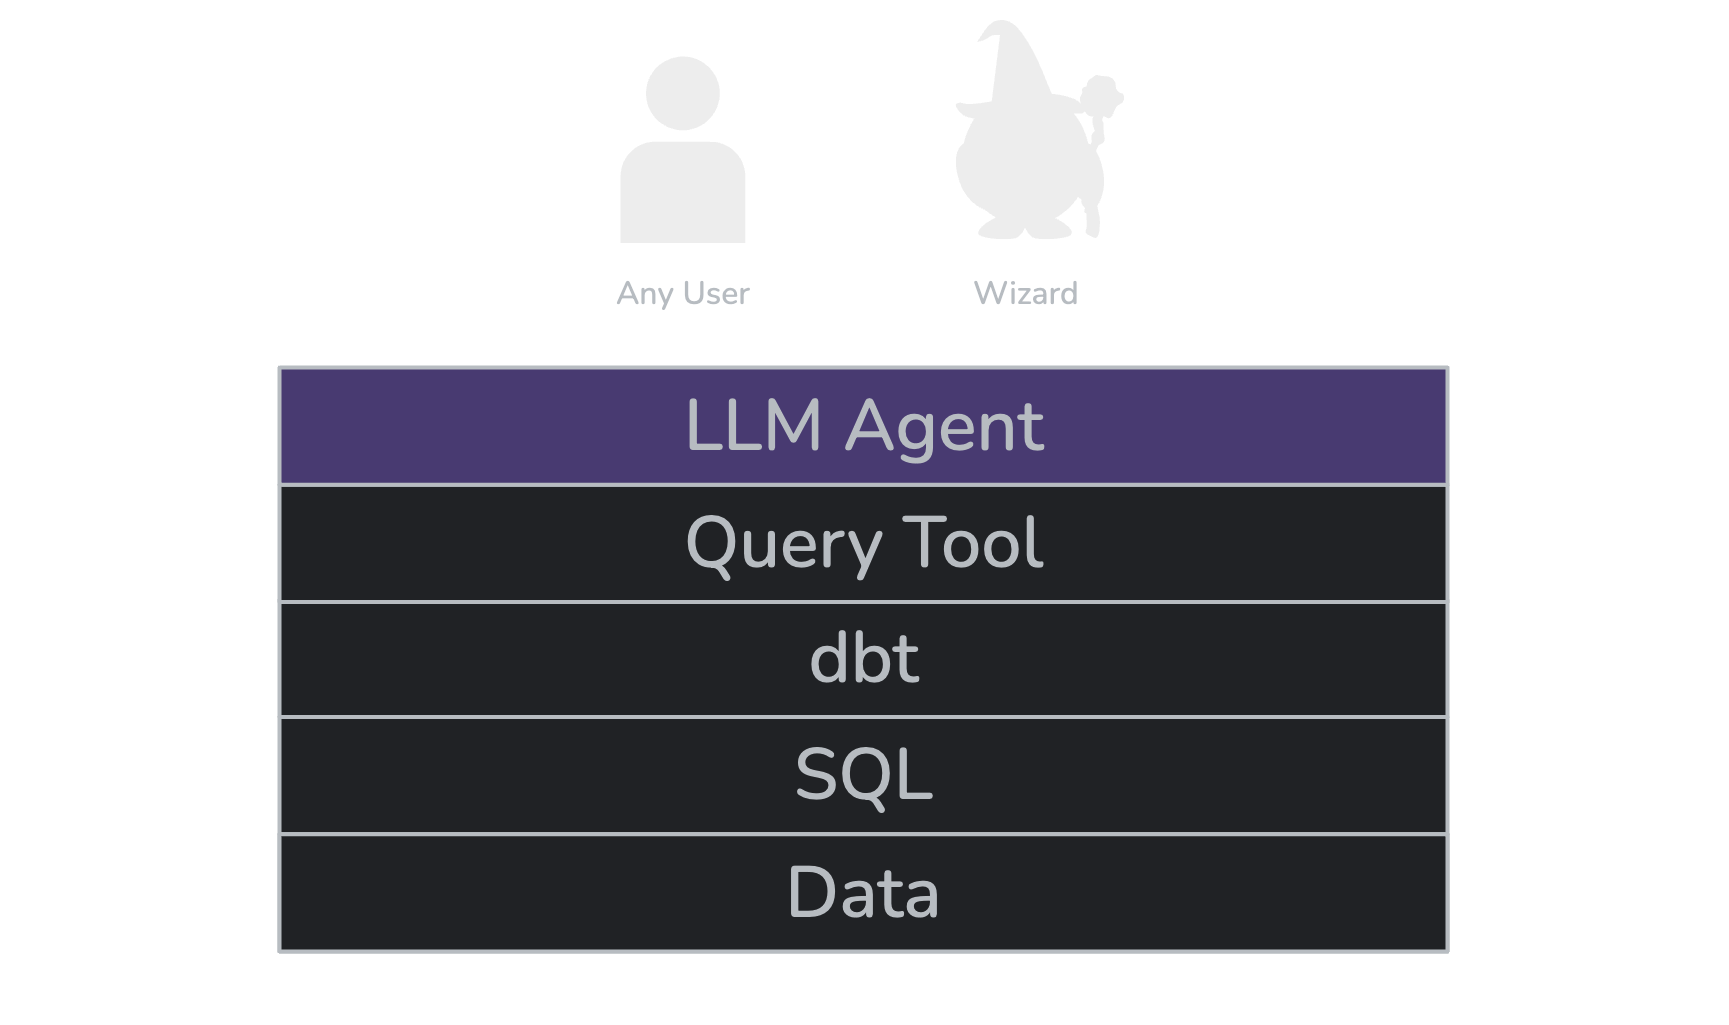
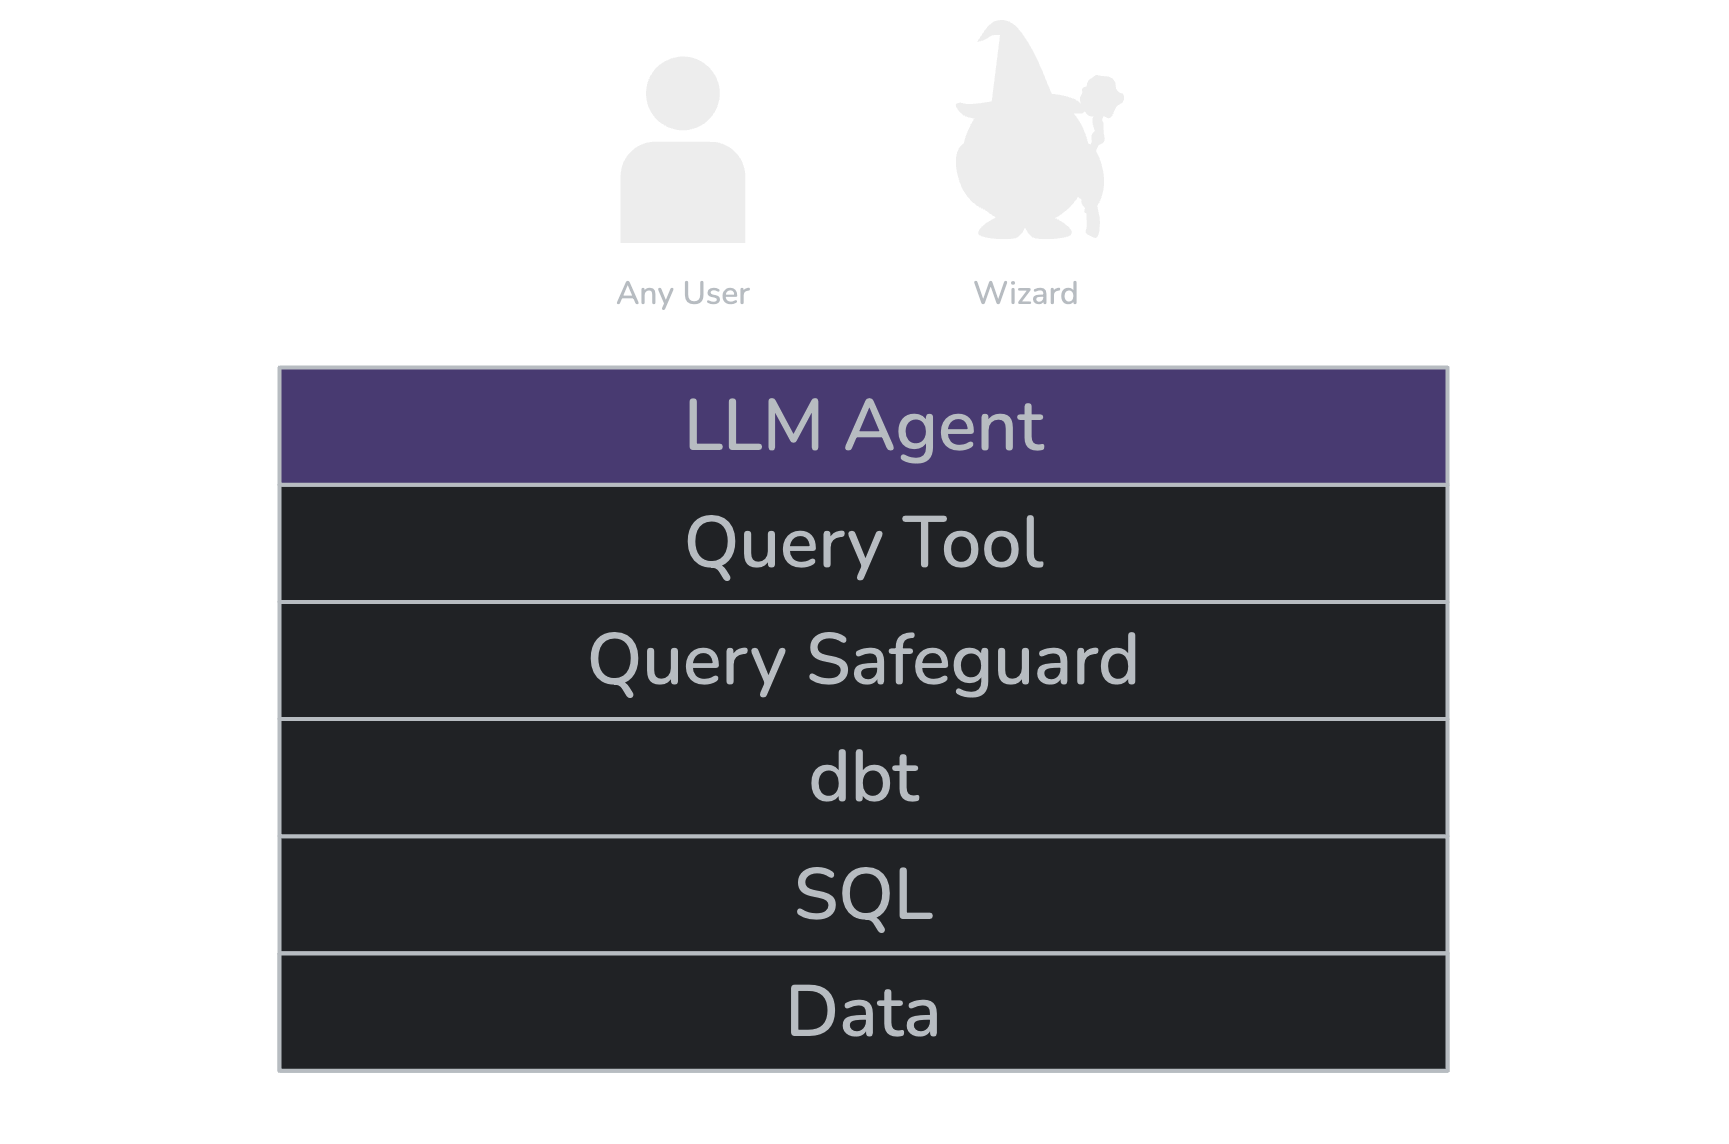
Tweaks to clarify what it's all about.

Changed region(s): [[0.1562, 0.2498, 0.8433, 0.9366]]

diff --git a/README.md b/README.md
@@ -6,11 +6,9 @@ SQLBot is a new kind of interface for your database. Instead of writing SQL quer
 
 It represents the next logical layer on the modern data stack, building directly on the power of SQL and dbt.
 
-### How It Works: A Smarter Tech Stack
+### The Problem with Raw SQL
 
-To understand SQLBot, it helps to see the evolution of the tools it's built upon.
-
-#### **Layer 1: SQL — The Powerful Foundation**
+Most people use SQL through apps.  Maybe you're comfortable writing raw SQL queries if you're a wizard.  Most people aren't.
 
 <picture>
   <source media="(prefers-color-scheme: dark)" srcset="documentation/diagrams/images/architecture/DB+SQL-dark.png">
@@ -18,7 +16,7 @@ To understand SQLBot, it helps to see the evolution of the tools it's built upon
   <img alt="SQL Layer: The foundation layer showing raw SQL complexity" src="documentation/diagrams/images/architecture/DB+SQL.png">
 </picture>
 
-SQL is the universal language of data. It's powerful, but can quickly become complex and difficult to read, especially with multiple joins. For example, getting a customer's rental history in the Sakila database (a sample DVD rental store database with customers, films, and rental transactions) requires this:
+Sure, SQL powers most relational databases—it's incredibly powerful. But here's the thing: even simple questions can turn into sprawling queries with multiple joins and cryptic table relationships. Want to see what a "basic" customer lookup actually looks like? Here's what you'd need to write just to get someone's rental history from the Sakila database:
 
 ```sql
 -- Raw SQL: Get rental history for customer 526
@@ -41,15 +39,15 @@ ORDER BY
 
 This is hard to reuse and requires every user to understand the database's join logic.
 
-#### **Layer 2: dbt — The Standardization Layer**
+### Enter dbt: Sharing Database Knowledge
 
 <picture>
   <source media="(prefers-color-scheme: dark)" srcset="documentation/diagrams/images/architecture/DB+SQL+DBT-dark.png">
   <source media="(prefers-color-scheme: light)" srcset="documentation/diagrams/images/architecture/DB+SQL+DBT.png">
-  <img alt="dbt Layer: Standardization layer adding structure and reusability to SQL" src="documentation/diagrams/images/architecture/DB+SQL+DBT.png">
+  <img alt="dbt Layer: Knowledge sharing layer making database expertise accessible to business users" src="documentation/diagrams/images/architecture/DB+SQL+DBT.png">
 </picture>
 
-dbt sits on top of SQL, adding a layer of templating (Jinja) and structure. It allows you to create reusable macros that hide complexity. The ugly query above can be turned into a clean, readable macro:
+Here's where dbt changes the game. Those database wizards who understand all the table relationships? They can package their knowledge into macros and schemas that business users can actually work with. That ugly query above becomes a simple, self-documenting function:
 
 ```sql
 -- In a file like `macros/get_customer_rental_history.sql`
@@ -72,15 +70,16 @@ dbt sits on top of SQL, adding a layer of templating (Jinja) and structure. It a
 {% endmacro %}
 ```
 
-Now, anyone (or anything) can perform that complex task with a simple, self-documenting line:
+Suddenly, business users can access complex database operations without needing to understand the underlying join logic:
 
 ```sql
--- A human can now write this instead:
+-- A business user can now write this instead:
 {{ get_customer_rental_history(customer_id=526) }}
 ```
-dbt also standardizes database connections and provides a `schema.yml` file, a "data dictionary" that describes your tables and columns in plain English.
 
-#### **Layer 3: SQLBot — The Intelligence & Safety Layer**
+The real magic happens in dbt's `schema.yml` files—they're like institutional memory for your database. Wizards document what each table and column actually means in plain English, creating a shared vocabulary that makes databases accessible to entire teams.
+
+### SQLBot: Adding Intelligence & Safety
 
 <picture>
   <source media="(prefers-color-scheme: dark)" srcset="documentation/diagrams/images/architecture/DB+SQL+DBT+agent-dark.png">
